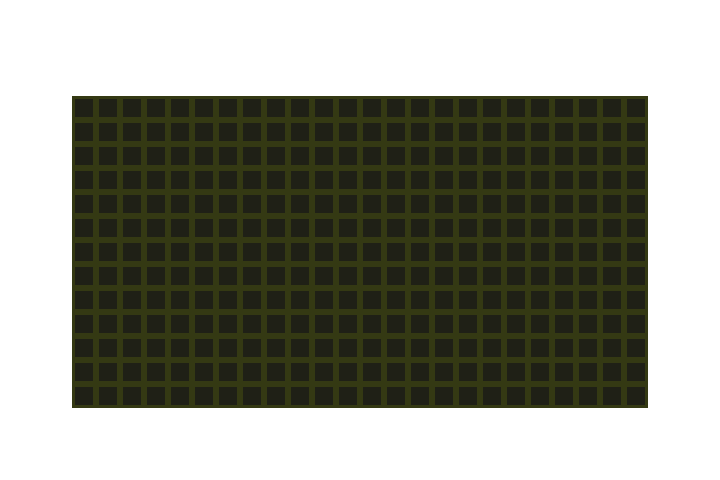
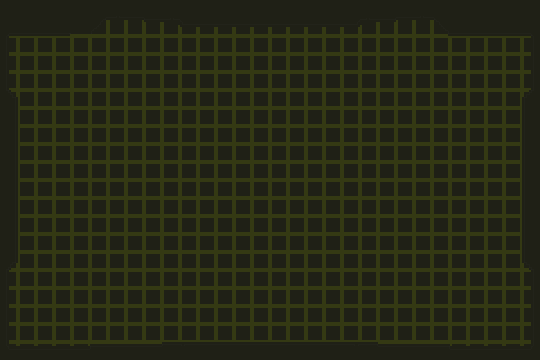
reduce interface_minimap of 25% and add Tile on minimap

diff --git a/src/bonus/interface/interface_utils_bonus.c b/src/bonus/interface/interface_utils_bonus.c
@@ -6,7 +6,7 @@
 /*   By: aska <aska@student.42.fr>                  +#+  +:+       +#+        */
 /*                                                +#+#+#+#+#+   +#+           */
 /*   Created: 2025/01/08 00:44:55 by aska              #+#    #+#             */
-/*   Updated: 2025/01/19 20:30:53 by aska             ###   ########.fr       */
+/*   Updated: 2025/01/24 03:05:50 by aska             ###   ########.fr       */
 /*                                                                            */
 /* ************************************************************************** */
 
@@ -39,9 +39,10 @@ int increment_position(t_bool reset)
 
 void interface_tiles_buffer_index(t_tiles_ptr *tiles, t_texture *tex)
 {
-	tiles->empty = &tex->buffer[increment_position(TRUE)];
-	tiles->floor = &tex->buffer[increment_position(FALSE)];
-	tiles->one = &tex->buffer[increment_position(FALSE)];
+	tiles->floor = &tex->buffer[increment_position(TRUE)];
+	tiles->twin = &tex->buffer[increment_position(FALSE)];
+	tiles->right_door = &tex->buffer[increment_position(FALSE)];
+	tiles->left_door = &tex->buffer[increment_position(FALSE)];
 	tiles->two = &tex->buffer[increment_position(FALSE)];
 	tiles->three = &tex->buffer[increment_position(FALSE)];
 	tiles->four = &tex->buffer[increment_position(FALSE)];
@@ -50,7 +51,6 @@ void interface_tiles_buffer_index(t_tiles_ptr *tiles, t_texture *tex)
 	tiles->seven = &tex->buffer[increment_position(FALSE)];
 	tiles->height = &tex->buffer[increment_position(FALSE)];
 	tiles->nine = &tex->buffer[increment_position(FALSE)];
-	tiles->left_door = &tex->buffer[increment_position(FALSE)];
-	tiles->right_door = &tex->buffer[increment_position(FALSE)];
-	tiles->twin = &tex->buffer[increment_position(FALSE)];
+	tiles->one = &tex->buffer[increment_position(FALSE)];
+	tiles->empty = &tex->buffer[increment_position(FALSE)];
 }

diff --git a/src/bonus/interface/draw_img_interface.c b/src/bonus/interface/draw_img_interface.c
@@ -6,7 +6,7 @@
 /*   By: aska <aska@student.42.fr>                  +#+  +:+       +#+        */
 /*                                                +#+#+#+#+#+   +#+           */
 /*   Created: 2025/01/09 13:40:43 by aska              #+#    #+#             */
-/*   Updated: 2025/01/11 17:44:22 by aska             ###   ########.fr       */
+/*   Updated: 2025/01/24 03:03:45 by aska             ###   ########.fr       */
 /*                                                                            */
 /* ************************************************************************** */
 
@@ -66,18 +66,18 @@ int	draw_images(t_interface *interface, t_map *map)
     t_vec2i	end;
 
     start = vector2i(0, 0);
-	end = vector2i(720, 480);
-    interface->img_bg = mlx_new_image(interface->mlx, 720, 480);
+	end = vector2i(MINIMAP_W, MINIMAP_H);
+    interface->img_bg = mlx_new_image(interface->mlx, MINIMAP_W, MINIMAP_H);
     if (interface->img_bg == NULL)
         return (FAIL);
     draw_image_bg(interface, start, end);
-    interface->img_fg = mlx_new_image(interface->mlx, 720, 480);
+    interface->img_fg = mlx_new_image(interface->mlx, MINIMAP_W, MINIMAP_H);
     if (interface->img_fg == NULL)
         return (FAIL);
     draw_image_fg(interface, start, end);
-    interface->img_map = mlx_new_image(interface->mlx, map->width * 24, map->height * 24);
+    interface->img_map = mlx_new_image(interface->mlx, map->width * TILES_W, map->height * TILES_H);
     if (interface->img_map == NULL)
         return (FAIL);
-    draw_image_minimap(interface, start, vector2i(map->width * 24, map->height * 24), map);
+    draw_image_minimap(interface, start, vector2i(map->width * TILES_W, map->height * TILES_H), map);
     return (SUCCESS);
 }

diff --git a/include/bonus/interface_utils_bonus.h b/include/bonus/interface_utils_bonus.h
@@ -6,17 +6,17 @@
 /*   By: aska <aska@student.42.fr>                  +#+  +:+       +#+        */
 /*                                                +#+#+#+#+#+   +#+           */
 /*   Created: 2025/01/08 00:51:50 by aska              #+#    #+#             */
-/*   Updated: 2025/01/19 20:30:04 by aska             ###   ########.fr       */
+/*   Updated: 2025/01/24 02:53:42 by aska             ###   ########.fr       */
 /*                                                                            */
 /* ************************************************************************** */
 
 #ifndef INTERFACE_UTILS_BONUS_H
 # define INTERFACE_UTILS_BONUS_H
 
-# define MINIMAP_W 720
-# define MINIMAP_H 480
-# define TILES_W 24
-# define TILES_H 24
+# define MINIMAP_W 540
+# define MINIMAP_H 360
+# define TILES_W 18
+# define TILES_H 18
 # define PATH_ASSET_BG "assets/BG.png"
 # define PATH_ASSET_FG "assets/FG.png"
 # define PATH_ASSET_TILES "assets/tiles_minimapV2.png"

diff --git a/src/bonus/interface/interface_render_bonus.c b/src/bonus/interface/interface_render_bonus.c
@@ -6,7 +6,7 @@
 /*   By: aska <aska@student.42.fr>                  +#+  +:+       +#+        */
 /*                                                +#+#+#+#+#+   +#+           */
 /*   Created: 2024/12/28 15:03:52 by svogrig           #+#    #+#             */
-/*   Updated: 2025/01/20 17:16:07 by aska             ###   ########.fr       */
+/*   Updated: 2025/01/24 02:58:28 by aska             ###   ########.fr       */
 /*                                                                            */
 /* ************************************************************************** */
 
@@ -17,10 +17,10 @@ void	draw_player(t_interface *interface)
 	t_vec2i	start;
 	t_vec2i	end;
 
-	start.x = MINIMAP_W / 2;
-	start.y = MINIMAP_H / 2;
-	end.x = start.x + 23;
-	end.y = start.y + 23;
+	start.x = MINIMAP_W >> 1;
+	start.y = MINIMAP_H >> 1;
+	end.x = start.x + TILES_H -1;
+	end.y = start.y + TILES_W -1;
 	draw_rectangle(interface, start, end, 0xAAFFFF00);
 }
 

diff --git a/src/bonus/main_bonus.c b/src/bonus/main_bonus.c
@@ -6,7 +6,7 @@
 /*   By: aska <aska@student.42.fr>                  +#+  +:+       +#+        */
 /*                                                +#+#+#+#+#+   +#+           */
 /*   Created: 2024/10/24 20:37:20 by svogrig           #+#    #+#             */
-/*   Updated: 2025/01/21 23:13:30 by aska             ###   ########.fr       */
+/*   Updated: 2025/01/23 23:24:54 by aska             ###   ########.fr       */
 /*                                                                            */
 /* ************************************************************************** */
 
@@ -49,11 +49,10 @@ int	main(int argc, char **argv)
 	t_data	data;
 	t_option option;
 
+	title();
 	exit_code = program_init(&data, &option, argc, argv);
 	if (exit_code == SUCCESS)
 		exit_code = program_setup(&data, &option, argv[1]);
-	// if (exit_code == SUCCESS)
-	// 	title();
 	if (exit_code == SUCCESS)
 	{
 		event_setup(&data);
